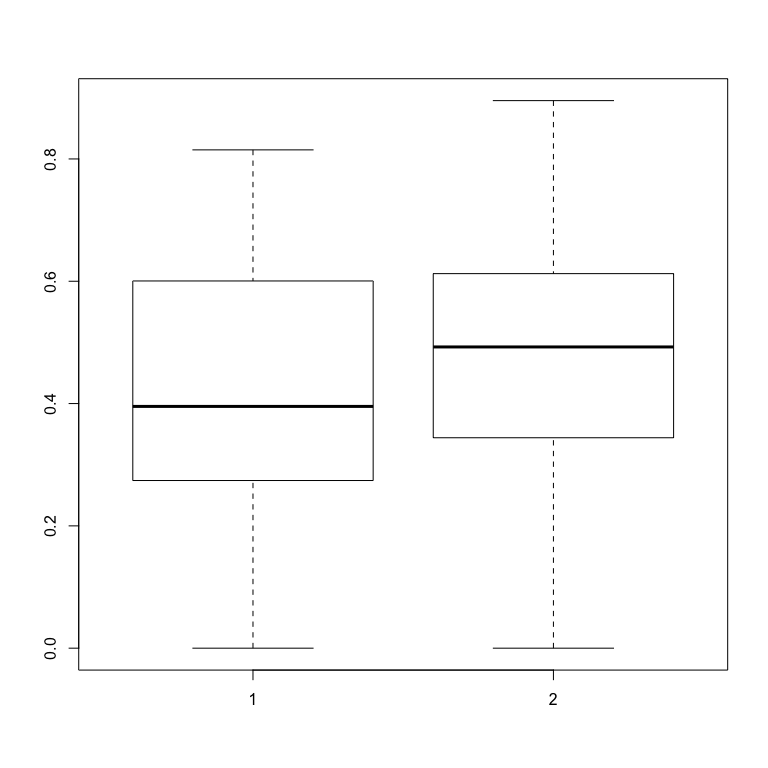
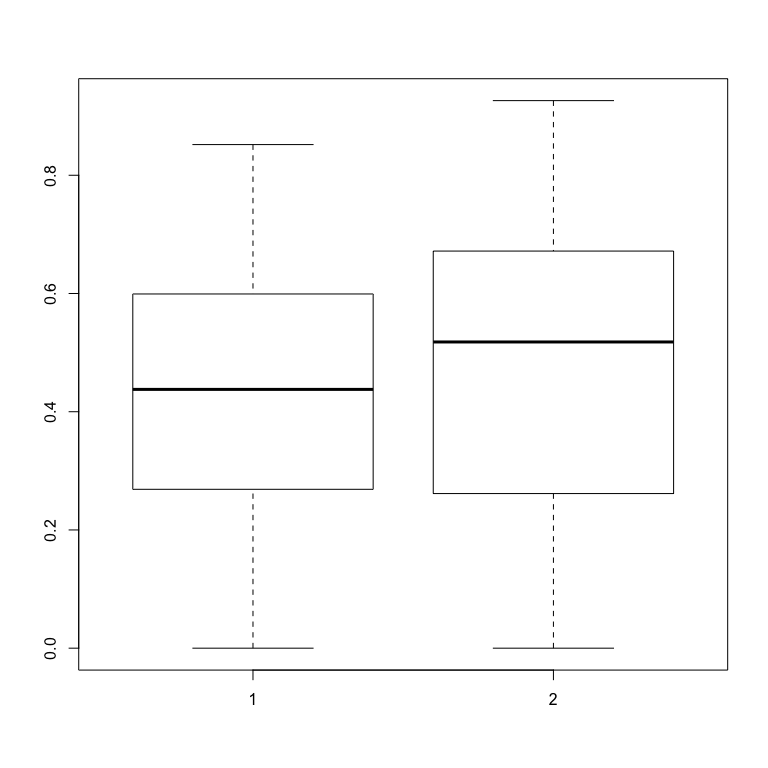
updates proportions

diff --git a/Examples/ProportionalData.md b/Examples/ProportionalData.md
@@ -1,4 +1,4 @@
-# Options to deal with continous proportions
+# Options to analyze continous proportions
 Florian Hartig  
 2/16/2017  
 
@@ -18,12 +18,15 @@ boxplot(resp~pred, data = dat)
 
 ![](ProportionalData_files/figure-html/unnamed-chunk-1-1.png)<!-- -->
 
+The issue with continous proportions is that they are continous obviously, so we would like to use a continous distribution, but they are also bound between 0 and 1, which limits our options quite considerably. 
 
-# Fitting the data
+# Options to fit the data
+
+Here, a list of options to fit the data. There is no clear best choice, either of the options makes slighly different assumptions about the residuals.
 
 ## Kruskal-Wallis Rank Sum Test
 
-For a categorical predictor, a simple KW test might suffice
+In experimental settings with a single categorical predictor, a simple KW test might suffice
 
 
 ```r
@@ -35,8 +38,18 @@ kruskal.test(resp~pred, data = dat)
 ## 	Kruskal-Wallis rank sum test
 ## 
 ## data:  resp by pred
-## Kruskal-Wallis chi-squared = 1.8468, df = 1, p-value = 0.1742
+## Kruskal-Wallis chi-squared = 1.2791, df = 1, p-value = 0.2581
 ```
+
+Although some sources suggest that this is less powerfull than regression-alternatives, I didn't see major losses of power when playing with this informally. 
+
+
+## GLM, logit link, Gaussian response
+
+A second choice is to fit a gaussian glm with a logit link. The idea is to stretch out the data towards the 0/1 borders, so that residuals become more symmetric. This streching idea, however, is dangerous. Firstly, this distribution cannot deal with zeros or ones. Because there are zeros and ones in our data, I have shrunk the data by 0.01 inside [0.01,0.99]. But even so, if there are many zeros and ones, the distributional assumptions are easily violated. Use this with care
+
+
+
 
 ## Beta-Regression
 
@@ -48,9 +61,9 @@ mod1<-gamlss(resp~pred,sigma.formula=~1, nu.formula=~1, family=BEZI, data = dat)
 ```
 
 ```
-## GAMLSS-RS iteration 1: Global Deviance = 17.1381 
-## GAMLSS-RS iteration 2: Global Deviance = 15.1494 
-## GAMLSS-RS iteration 3: Global Deviance = 15.1492
+## GAMLSS-RS iteration 1: Global Deviance = 25.8278 
+## GAMLSS-RS iteration 2: Global Deviance = 25.4306 
+## GAMLSS-RS iteration 3: Global Deviance = 25.4306
 ```
 
 ```r
@@ -70,17 +83,15 @@ summary(mod1)
 ## ------------------------------------------------------------------
 ## Mu link function:  logit
 ## Mu Coefficients:
-##             Estimate Std. Error t value Pr(>|t|)  
-## (Intercept)  -0.2624     0.1081  -2.427   0.0171 *
-## pred2         0.3938     0.1552   2.537   0.0128 *
-## ---
-## Signif. codes:  0 '***' 0.001 '**' 0.01 '*' 0.05 '.' 0.1 ' ' 1
+##             Estimate Std. Error t value Pr(>|t|)
+## (Intercept)  -0.1181     0.1219  -0.969    0.335
+## pred2         0.2154     0.1715   1.257    0.212
 ## 
 ## ------------------------------------------------------------------
 ## Sigma link function:  log
 ## Sigma Coefficients:
 ##             Estimate Std. Error t value Pr(>|t|)    
-## (Intercept)   1.8632     0.1398   13.33   <2e-16 ***
+## (Intercept)   1.5824     0.1355   11.68   <2e-16 ***
 ## ---
 ## Signif. codes:  0 '***' 0.001 '**' 0.01 '*' 0.05 '.' 0.1 ' ' 1
 ## 
@@ -88,7 +99,7 @@ summary(mod1)
 ## Nu link function:  logit 
 ## Nu Coefficients:
 ##             Estimate Std. Error t value Pr(>|t|)    
-## (Intercept)  -2.0907     0.3196  -6.542 2.96e-09 ***
+## (Intercept)  -2.3136     0.3494  -6.621 2.05e-09 ***
 ## ---
 ## Signif. codes:  0 '***' 0.001 '**' 0.01 '*' 0.05 '.' 0.1 ' ' 1
 ## 
@@ -98,9 +109,9 @@ summary(mod1)
 ##       Residual Deg. of Freedom:  96 
 ##                       at cycle:  3 
 ##  
-## Global Deviance:     15.14923 
-##             AIC:     23.14923 
-##             SBC:     33.56991 
+## Global Deviance:     25.4306 
+##             AIC:     33.4306 
+##             SBC:     43.85128 
 ## ******************************************************************
 ```
 
@@ -108,7 +119,7 @@ maybe also with GLMMTMT http://stats.stackexchange.com/questions/233366/how-to-f
 
 ## Transformation
 
-Idea is to apply a transformation to map the data onto -inf, inf, and apply a normal linear regression / ANOVA. Warton, D. I. & Hui, F. K. C. The arcsine is asinine: the analysis of proportions in ecology Ecology, Ecology, 2010, 92, 3-10 recommend the logit transformation, although they do not that there is not general rule and any transformation that would make residuals normal is permissible. 
+Idea is to apply a transformation to map the data onto -inf, inf, and apply a normal linear regression / ANOVA. Warton, D. I. & Hui, F. K. C. The arcsine is asinine: the analysis of proportions in ecology Ecology, Ecology, 2010, 92, 3-10 recommend the logit transformation, although they do not that there is not general rule and any transformation that would make residuals normal is permissible. I have seen other papers discourage it, especially when there are observations close to 0 and 1. 
 
 
 ```r
@@ -116,7 +127,7 @@ dat$transformed = qlogis(dat$resp)
 hist(dat$transformed, breaks = 20)
 ```
 
-![](ProportionalData_files/figure-html/unnamed-chunk-4-1.png)<!-- -->
+![](ProportionalData_files/figure-html/unnamed-chunk-5-1.png)<!-- -->
 
 The hist looks great, but note that we had zeros in the data, which were removed here because they are mappped to -Inf. If there are zero / ones present, one can shrink the borders a bit to avoid the -Inf for zero, but if there are lots of zeros, the zero-peak will still be visible
 
@@ -127,7 +138,7 @@ dat$transformed = qlogis(dat$resp / (1 + 2*eps) + eps)
 hist(dat$transformed, breaks = 20)
 ```
 
-![](ProportionalData_files/figure-html/unnamed-chunk-5-1.png)<!-- -->
+![](ProportionalData_files/figure-html/unnamed-chunk-6-1.png)<!-- -->
 
 OK, so this doesn't look so great but let's do the model anyay
 
@@ -144,18 +155,52 @@ summary(mod2)
 ## 
 ## Residuals:
 ##     Min      1Q  Median      3Q     Max 
-## -3.1185 -0.3635  0.2303  0.8485  2.3006 
+## -3.3065 -0.5771  0.2342  0.8450  2.4102 
 ## 
 ## Coefficients:
-##             Estimate Std. Error t value Pr(>|t|)   
-## (Intercept)  -0.5275     0.1875  -2.812  0.00594 **
-## pred2         0.1699     0.2652   0.641  0.52332   
+##             Estimate Std. Error t value Pr(>|t|)  
+## (Intercept)  -0.4576     0.1887  -2.425   0.0171 *
+## pred2         0.2880     0.2668   1.079   0.2831  
 ## ---
 ## Signif. codes:  0 '***' 0.001 '**' 0.01 '*' 0.05 '.' 0.1 ' ' 1
 ## 
-## Residual standard error: 1.326 on 98 degrees of freedom
-## Multiple R-squared:  0.004169,	Adjusted R-squared:  -0.005993 
-## F-statistic: 0.4103 on 1 and 98 DF,  p-value: 0.5233
+## Residual standard error: 1.334 on 98 degrees of freedom
+## Multiple R-squared:  0.01175,	Adjusted R-squared:  0.001664 
+## F-statistic: 1.165 on 1 and 98 DF,  p-value: 0.2831
+```
+
+A faster way to do the procedure is to use a glm with logit link and gaussian distribution 
+
+
+```r
+mod0 = glm(resp+0.01/0.98~pred, data = dat, family = gaussian(link = "logit")) 
+summary(mod0)
+```
+
+```
+## 
+## Call:
+## glm(formula = resp + 0.01/0.98 ~ pred, family = gaussian(link = "logit"), 
+##     data = dat)
+## 
+## Deviance Residuals: 
+##      Min        1Q    Median        3Q       Max  
+## -0.48219  -0.17726   0.02393   0.17852   0.44407  
+## 
+## Coefficients:
+##             Estimate Std. Error t value Pr(>|t|)  
+## (Intercept)  -0.2633     0.1419  -1.855   0.0666 .
+## pred2         0.2329     0.1990   1.170   0.2448  
+## ---
+## Signif. codes:  0 '***' 0.001 '**' 0.01 '*' 0.05 '.' 0.1 ' ' 1
+## 
+## (Dispersion parameter for gaussian family taken to be 0.06080773)
+## 
+##     Null deviance: 6.0428  on 99  degrees of freedom
+## Residual deviance: 5.9592  on 98  degrees of freedom
+## AIC: 7.7636
+## 
+## Number of Fisher Scoring iterations: 4
 ```
 
 
@@ -184,9 +229,9 @@ summary(mod3, se = "boot")
 ## tau: [1] 0.5
 ## 
 ## Coefficients:
-##             Value    Std. Error t value  Pr(>|t|)
-## (Intercept)  0.40194  0.03603   11.15624  0.00000
-## pred2        0.08929  0.05005    1.78429  0.07747
+##             Value   Std. Error t value Pr(>|t|)
+## (Intercept) 0.45362 0.05221    8.68850 0.00000 
+## pred2       0.04717 0.07124    0.66211 0.50945
 ```
 
 ## Quasi-Binomial / "pseudo-binomial"
@@ -201,7 +246,7 @@ Another technique is the idea of fitting a "pseudo-binomial" model, see
 
 * http://stats.stackexchange.com/questions/91724/what-is-quasi-binomial-distribution-in-the-context-of-glm
 
-Why this works is still not 100% clear to me - in the glm, we can specify proportions, such as 0.2, 0.3, but then we have to provide weights (10, 20), which are then the number of trials. It seems the quasi-binomial allows 0.2 etc responses also with weights all equal to 1. 
+Why this works is a bit mysterious. In the glm, we can specify proportions, such as 0.2, 0.3, but then we have to provide weights (10, 20), which are then the number of trials. It seems the quasi-binomial allows 0.2 etc responses also with weights all equal to 1, because the weights are the essentially fitted. 
 
 I saw remarks that the power of this model is similar to the logit transformation with lm ... in my simulations, I seemed more like lower Power, but this would have to be tested more thoroghly. Advantage is that zeros are no problem. Disadvantage is that residuals are difficult to check. 
 
@@ -219,19 +264,19 @@ summary(mod4)
 ## 
 ## Deviance Residuals: 
 ##      Min        1Q    Median        3Q       Max  
-## -1.10762  -0.26446   0.01429   0.33567   0.92438  
+## -1.14731  -0.36749   0.04813   0.35890   0.96016  
 ## 
 ## Coefficients:
-##             Estimate Std. Error t value Pr(>|t|)   
-## (Intercept)  -0.3920     0.1357  -2.888  0.00477 **
-## pred2         0.2256     0.1904   1.185  0.23903   
+##             Estimate Std. Error t value Pr(>|t|)  
+## (Intercept)  -0.3050     0.1419  -2.149   0.0341 *
+## pred2         0.2337     0.1996   1.171   0.2445  
 ## ---
 ## Signif. codes:  0 '***' 0.001 '**' 0.01 '*' 0.05 '.' 0.1 ' ' 1
 ## 
-## (Dispersion parameter for quasibinomial family taken to be 0.2215739)
+## (Dispersion parameter for quasibinomial family taken to be 0.2459811)
 ## 
-##     Null deviance: 26.800  on 99  degrees of freedom
-## Residual deviance: 26.489  on 98  degrees of freedom
+##     Null deviance: 28.945  on 99  degrees of freedom
+## Residual deviance: 28.607  on 98  degrees of freedom
 ## AIC: NA
 ## 
 ## Number of Fisher Scoring iterations: 3
